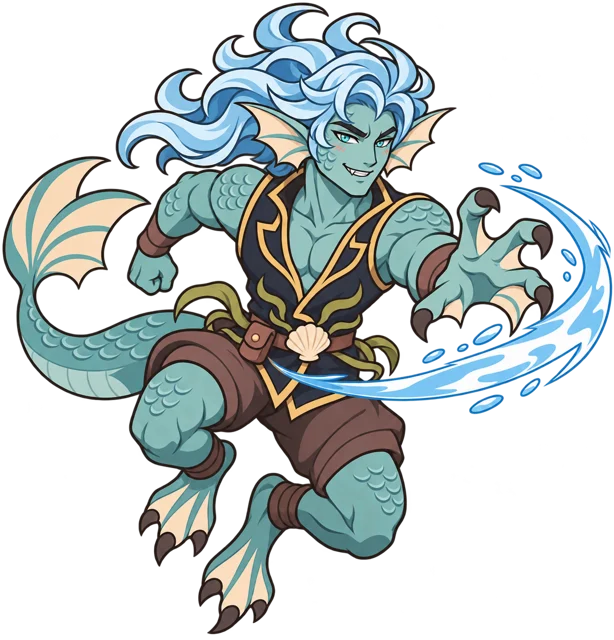
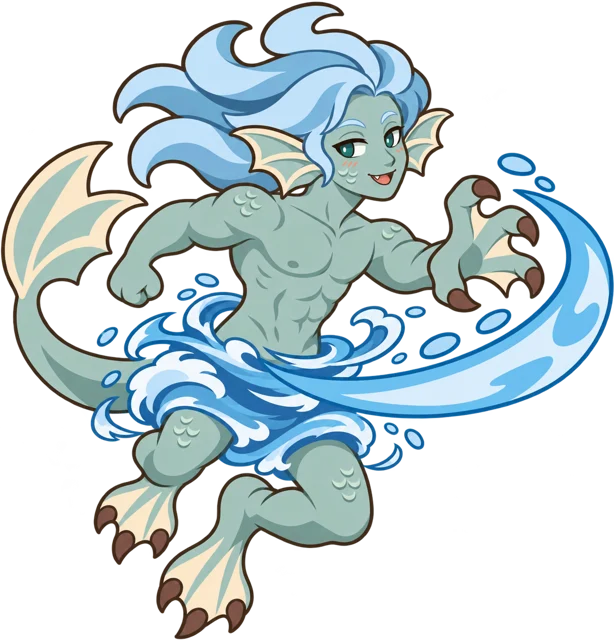
Add mystery event illustration and adopt water-spirit undine artwork

diff --git a/index.html b/index.html
@@ -176,7 +176,7 @@ function drawTree(){const root=$('treeNodes');root.replaceChildren();const growt
 function selectSpell(id){const reason=canCast(id);if(reason){say(reason);draw();return;}const sp=spells[id];if(sp.target==='enemy'||sp.target==='ally'){selectedSpell=id;draw();return;}if(sp.target==='facility'){selectedSpell=id;draw();return;}if(sp.target==='tile'){targetSpell=id;selectedSpell=null;exploreOpen=false;say(sp.name+'：対象の石版を選んでください。');draw();return;}cast(id);}
 function drawSpellList(root,scene){const filters=text(root,'','div','actions');for(const [e,name] of elements)button(filters,name+' Lv.'+state.levels[e],()=>{spellFilter=e;selectedSpell=null;draw();},false,e!==spellFilter);for(let n=1;n<=5;n++){const id=spellFilter+n,sp=spells[id];if(sp.scene!==scene&&sp.scene!=='both')continue;const row=text(root,'','div','spell-row');text(row,n+' '+sp.name+'　×'+state.scrolls[id]+'　MP '+spellCost(id),'strong');text(row,sp.description+(id==='time5'?'（現在：'+state.floor+'F → '+Math.max(1,state.floor-travelDepth())+'F）':''),'p','section-sub');const reason=canCast(id);button(row,reason||'使う',()=>selectSpell(id),!!reason);}
  if(selectedSpell){const sp=spells[selectedSpell],box=text(root,'','div','notice');text(box,sp.name+'：対象を選択');if(sp.target==='enemy')state.battle.enemies.forEach((e,i)=>{if(e.hp>0&&!e.escaped){const reason=canCast(sp.id,i);button(box,e.name+(reason?'（'+reason+'）':''),()=>cast(sp.id,i),!!reason);}});if(sp.target==='ally')state.allies.filter(a=>a.hp===0).forEach(a=>button(box,a.name,()=>cast(sp.id,a.id)));if(sp.target==='facility')for(const [id,name] of Object.entries(facilities))button(box,name,()=>{selectedFacility=id;targetSpell='light2';selectedSpell=null;exploreOpen=false;say(name+'を置く空白マスを選んでください。');draw();});button(box,'選択を戻す',()=>{selectedSpell=null;draw();},false,true);}}
-function drawMap(){const root=$('map');root.replaceChildren();$('message').textContent=state.msg;$('progress').textContent='開放 '+state.cells.filter(c=>c.open).length+'/30';state.cells.forEach((c,i)=>{const near=adjacent(i),known=c.open||c.known;const b=document.createElement('button');b.type='button';b.dataset.type=c.type;b.dataset.known=String(known);b.className='tile '+(near||targetSpell||c.open?'adj ':'')+(c.open?'':'hidden ')+(c.used?'used':'');b.disabled=!!state.battle||state.dead||state.complete||(!targetSpell&&!c.open&&!near);b.setAttribute('aria-label',(Math.floor(i/5)+1)+'行'+(i%5+1)+'列、'+(targetSpell?'魔法の対象':known?(c.known&&!c.open?'探知済み ':'')+definitions[c.type].name+(c.open?(c.used?'・探索済み':'を調べる'):'を開放'):'石版を開放'));if(!c.open&&!known){const image=document.createElement('img');image.className='stone-image';image.alt='';image.src='assets/visual/seal-flat.webp';image.onerror=()=>image.remove();b.append(image);}const tileArt=known&&!c.facility?{chest:'chest-flat',hp:'healing-flat',sp:'mana-flat',merchant:'merchant-flat',stairs:'stairs-flat',battle:'battle-flat',strong:'battle-flat',rare:'battle-flat'}[c.type]:null;if(tileArt){const art=document.createElement('img');art.className='event-tile-art';art.alt='';art.src='assets/visual/'+tileArt+'.webp';art.draggable=false;b.append(art);b.className+=' illustrated-tile';}else text(b,c.facility?'⚒':known?definitions[c.type].icon:'✧','span','emoji');text(b,c.facility?facilities[c.facility]:known?definitions[c.type].name+(c.used?' 済':'')+(c.open?'':' 👁'):'石版','span','tile-label');b.addEventListener('click',()=>step(i));root.append(b);});
+function drawMap(){const root=$('map');root.replaceChildren();$('message').textContent=state.msg;$('progress').textContent='開放 '+state.cells.filter(c=>c.open).length+'/30';state.cells.forEach((c,i)=>{const near=adjacent(i),known=c.open||c.known;const b=document.createElement('button');b.type='button';b.dataset.type=c.type;b.dataset.known=String(known);b.className='tile '+(near||targetSpell||c.open?'adj ':'')+(c.open?'':'hidden ')+(c.used?'used':'');b.disabled=!!state.battle||state.dead||state.complete||(!targetSpell&&!c.open&&!near);b.setAttribute('aria-label',(Math.floor(i/5)+1)+'行'+(i%5+1)+'列、'+(targetSpell?'魔法の対象':known?(c.known&&!c.open?'探知済み ':'')+definitions[c.type].name+(c.open?(c.used?'・探索済み':'を調べる'):'を開放'):'石版を開放'));if(!c.open&&!known){const image=document.createElement('img');image.className='stone-image';image.alt='';image.src='assets/visual/seal-flat.webp';image.onerror=()=>image.remove();b.append(image);}const tileArt=known&&!c.facility?{mystery:'mystery-flat',chest:'chest-flat',hp:'healing-flat',sp:'mana-flat',merchant:'merchant-flat',stairs:'stairs-flat',battle:'battle-flat',strong:'battle-flat',rare:'battle-flat'}[c.type]:null;if(tileArt){const art=document.createElement('img');art.className='event-tile-art';art.alt='';art.src='assets/visual/'+tileArt+'.webp';art.draggable=false;b.append(art);b.className+=' illustrated-tile';}else text(b,c.facility?'⚒':known?definitions[c.type].icon:'✧','span','emoji');text(b,c.facility?facilities[c.facility]:known?definitions[c.type].name+(c.used?' 済':'')+(c.open?'':' 👁'):'石版','span','tile-label');b.addEventListener('click',()=>step(i));root.append(b);});
  const actions=$('actions');actions.replaceChildren();if(state.battle||state.dead||state.complete){if(state.complete)button(actions,'基地へ',base);return;}if(targetSpell)button(actions,'対象選択をキャンセル',()=>{targetSpell=null;draw();},false,true);button(actions,exploreOpen?'巻物を閉じる':'探索で巻物を使う',()=>{exploreOpen=!exploreOpen;selectedSpell=null;targetSpell=null;draw();});if(state.potions)button(actions,'ポーションで回復',()=>{if(state.hp===stats().hp)return;state.potions--;say('HP'+heal(40)+'回復。');save();draw();},state.hp===stats().hp,true);
  const c=state.cells[state.pos];if(c.type==='stairs')button(actions,state.floor===100?'100層踏破！':'階段を降りる',()=>{if(state.floor===100){state.complete=true;say('100層踏破！');}else{state=makeFloor(state.floor+1,state);say('地下'+state.floor+'Fへ。');}targetSpell=null;save();draw();});if(c.type==='return')button(actions,c.used?'休憩済み':'基地で休憩',()=>{if(c.used)return;c.used=true;const a=stats();state.hp=a.hp;state.mp=a.mp;state.sp=a.sp;for(const ally of state.allies)if(ally.hp>0)ally.hp=ally.maxHp;say('HP・MP・SPを全回復。');save();draw();},c.used);if(c.type==='merchant')button(actions,'巻物と素材を購入（10G）',()=>{if(state.gold<10)return;state.gold-=10;gainScroll();state.dust+=2;save();draw();},state.gold<10);
  const scrollRoot=$('exploreSpells');scrollRoot.replaceChildren();scrollRoot.classList.toggle('hide',!exploreOpen);if(exploreOpen){panelHeading(scrollRoot,'巻物をひらく',()=>{exploreOpen=false;selectedSpell=null;draw();});drawSpellList(scrollRoot,'explore');}const craftRoot=$('crafting');craftRoot.replaceChildren();if(c.facility){button(actions,'設備を使う',()=>{craftingOpen=!craftingOpen;draw();});if(craftingOpen){panelHeading(craftRoot,facilities[c.facility],()=>{craftingOpen=false;draw();});drawCrafting(craftRoot,c.facility);}}

diff --git a/assets/visual/README.md b/assets/visual/README.md
@@ -48,3 +48,6 @@ Only the cave slime received a new enemy illustration in this first visual pass.
 
 ### ウンディーネの攻撃構図
 招くように手を差し出すポーズから、体をひねった横向きの跳躍と、水の爪を斜めに振り抜く斬撃へ変更。目は相手を鋭く見据え、牙を見せる戦闘表情。青い鱗肌・ヒレ耳・水かき・尾・成人男性の体格を維持。
+
+- `mystery-flat.webp`: ハテナマス用の金色の疑問符が光る青緑の石碑。
+- ウンディーネは衣装を水流に置き換えた採用版。腰まわりを不透明な渦で覆い、既存キャラクターに合わせた線とセル影を維持。
